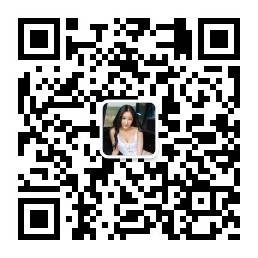
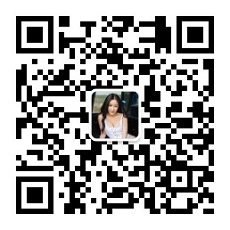
add my wechat

diff --git a/app/templates/main/index.html b/app/templates/main/index.html
@@ -119,6 +119,11 @@
                 <p><img alt="liaotian2020" src="static/img/liaotian-view.jpg"></p>
             </div>
 
+            <h3>个人微信号 <i class="fa fa-weixin" aria-hidden="true"></i></h3><hr/>
+            <div class="list-group">
+                <p><img alt="liaotian2020" src="static/img/wechat-view.jpg"></p>
+            </div>
+
             {% for widget in widgets %}
             <h3>{{ widget.title | safe }}</h3><hr/>
             <div class="list-group">
